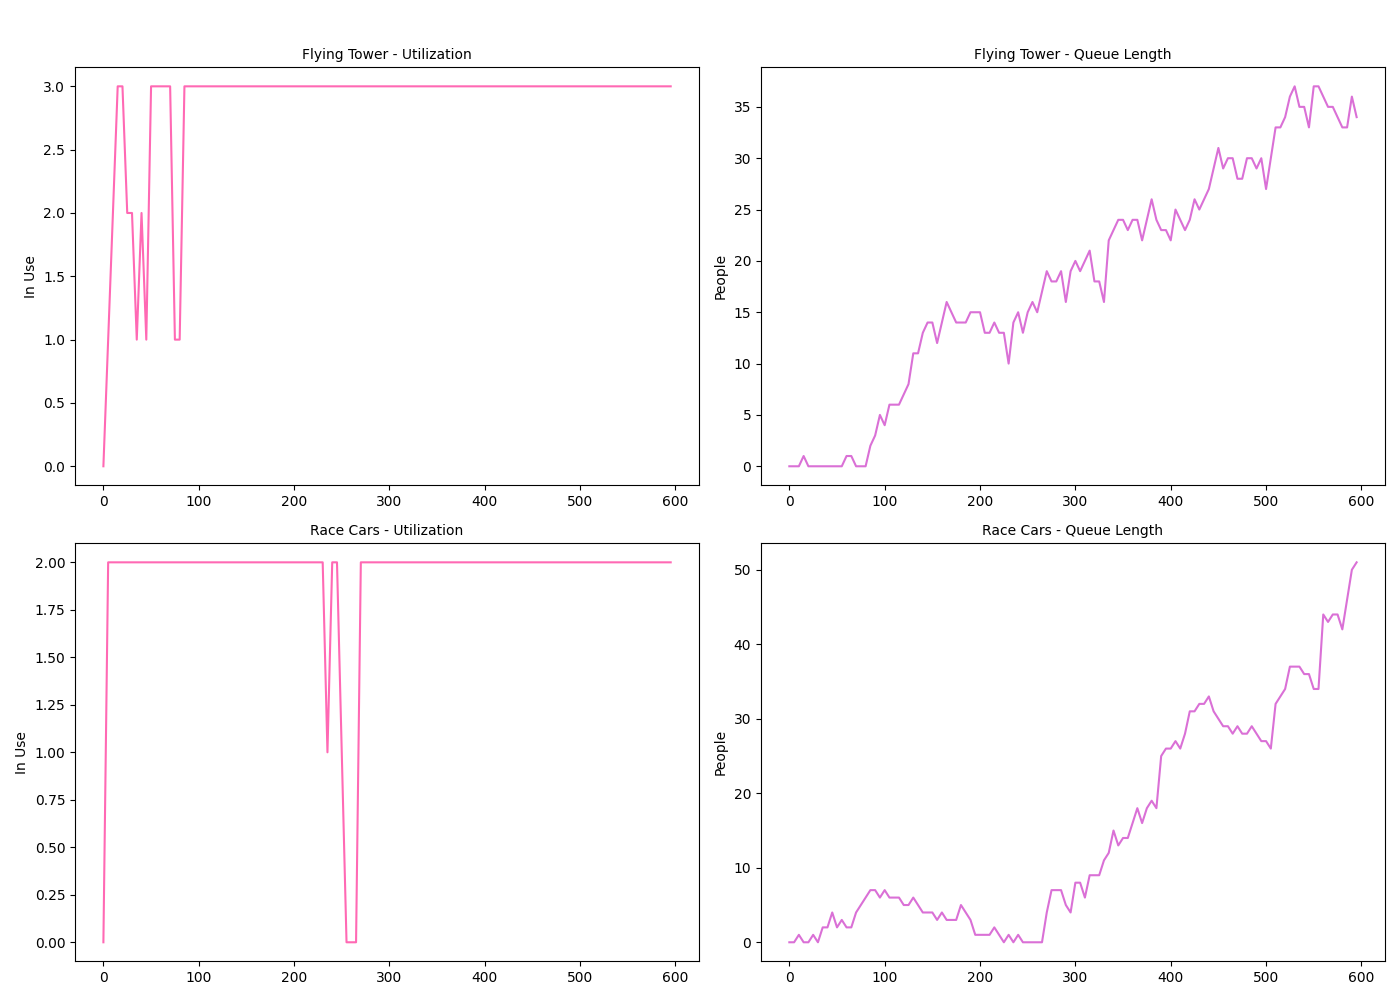
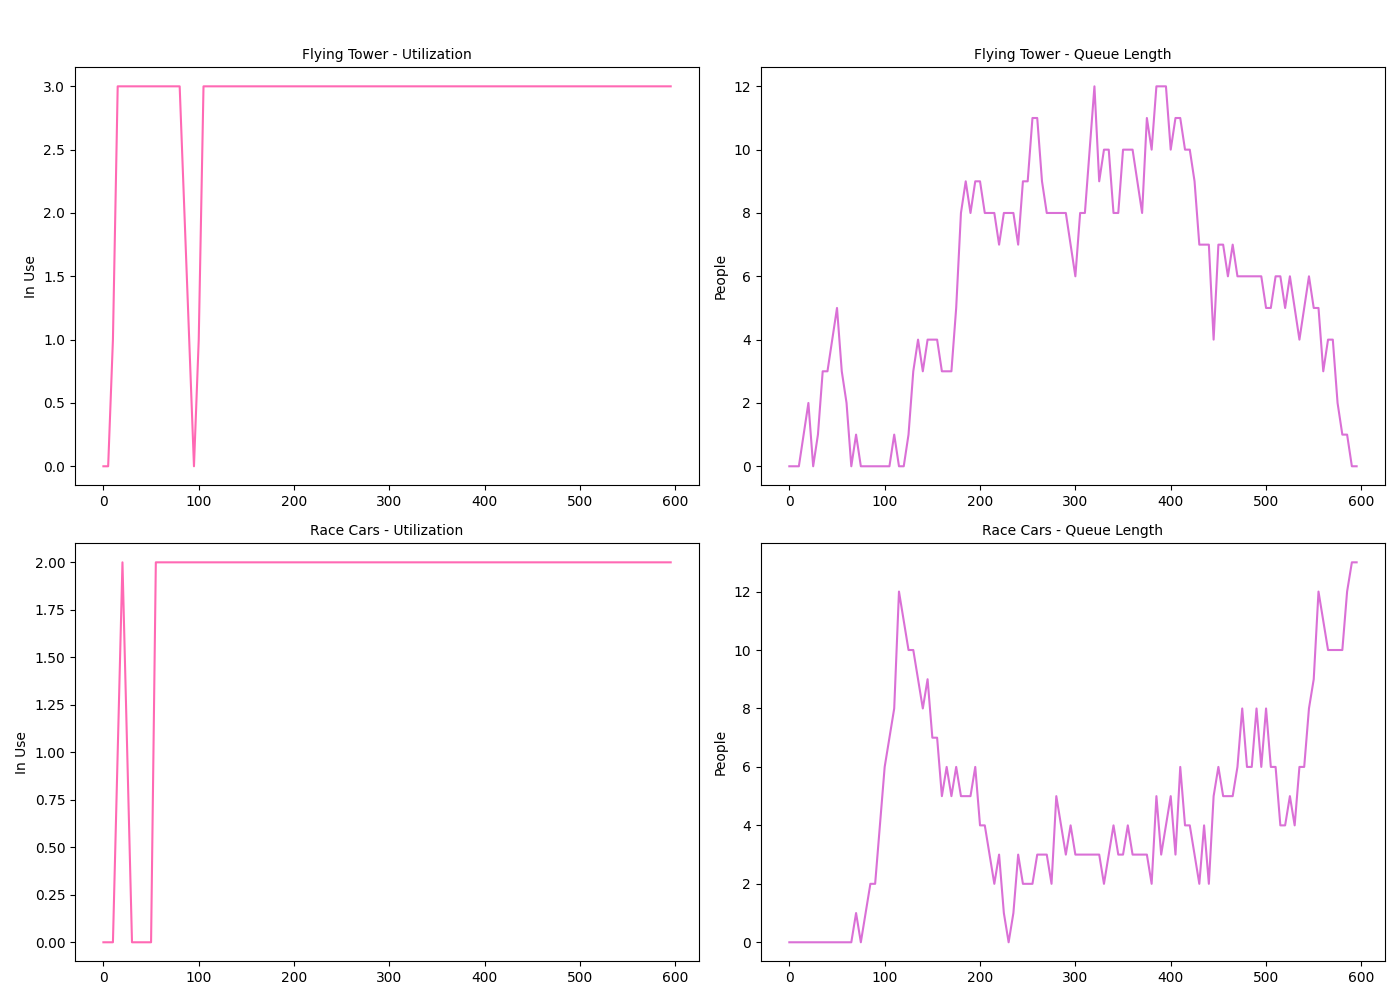
.

diff --git a/theme_park.py b/theme_park.py
@@ -7,8 +7,8 @@ import seaborn as sns
 from tabulate import tabulate
 from collections import defaultdict
 
-SIMULATION_TIME = 10 * 60
-VISITOR_ARRIVAL_MEAN = 0.5
+SIMULATION_TIME = 10 * 60 # total sim time in minutes
+VISITOR_ARRIVAL_MEAN = 0.5 # avg time bw visitor arrival
 RIDE_NAMES = ["Carousel", "Slide Cars", "Race Cars", "Ferris Wheel",
               "Self-Control Planes", "Spiral Rides", "Flying Tower"]
 RIDE_CAPACITY = {
@@ -44,7 +44,7 @@ VISITOR_PRIORITY = {
     "regular": 1,
 }
 
-event_logs_per_ride = {name: [] for name in RIDE_NAMES}
+event_logs_per_ride = {name: [] for name in RIDE_NAMES} # init list for each ride
 
 def format_time(t):
     total_seconds = int(t * 60)
@@ -58,13 +58,12 @@ class Ride:
         self.env = env
         self.name = name
         self.capacity = capacity
-        self.resource = simpy.PriorityResource(env, capacity)
+        self.resource = simpy.PriorityResource(env, capacity) # simpy resource w priority
         self.broken = False
         self.total_visitors = 0
         self.dropped_visitors = 0
         self.total_wait_time = 0
         self.utilization_time = 0
-        self.total_queue_time = 0
         self.queue_lengths = []
         self.failures = 0
         self.completed_rides = 0
@@ -74,26 +73,27 @@ class Ride:
         self.queue_log = []
         self.idle_time = 0
         self.last_busy_time = 0
-        self.env.process(self.breakdown_monitor())
-        self.env.process(self.log_time_series())
+        self.env.process(self.breakdown_monitor()) # start breakdown monitoring
+        self.env.process(self.log_time_series()) # start time series logging
 
     def monitor_utilization(self):
         now = self.env.now # gets current sim time
         duration = now - self.last_event_time # calc how much time passed since last state change
         state = 'broken' if self.broken else ('busy' if self.resource.count else 'idle')
-        self.state_durations[state] += duration
+        self.state_durations[state] += duration # add to state duration
         if state == 'idle':
-            self.idle_time += duration
+            self.idle_time += duration # track idle time
         elif state == 'broken':
-            self.last_busy_time = now
-        self.last_event_time = now
+            self.last_busy_time = now # track last busy time
+        self.last_event_time = now # track last event time
 
-    def log_event(self, visitor_id, arrival_time, wait_time, service_time, ride_start_time, ride_end_time, visitor_type):
+    def log_event(self, visitor_id, arrival_time, wait_time, service_time, ride_start_time, ride_end_time, visitor_type, priority):
         if len(event_logs_per_ride[self.name]) < 20:
             event_logs_per_ride[self.name].append([
                 format_time(self.env.now),
-                visitor_type,
                 visitor_id,
+                visitor_type,
+                priority,
                 self.name,
                 format_time(arrival_time),
                 f"{service_time} min",
@@ -105,18 +105,18 @@ class Ride:
                 "broken" if self.broken else "busy" if self.resource.count else "idle"
             ])
 
-    def breakdown_monitor(self):
+    def breakdown_monitor(self): # sim random breakdowns
         while True:
-            if not self.broken and random.random() < RIDE_FAILURE_PROB[self.name]:
-                self.broken = True
+            if not self.broken and random.random() < RIDE_FAILURE_PROB[self.name]: # chance of breakdown
+                self.broken = True # mark as broken
                 self.failures += 1
-                self.monitor_utilization()
-                yield self.env.timeout(RIDE_REPAIR_TIME())
-                self.monitor_utilization()
-                self.broken = False
-            yield self.env.timeout(1)
+                self.monitor_utilization() # log state change
+                yield self.env.timeout(RIDE_REPAIR_TIME()) # sim repair time
+                self.monitor_utilization() # log repair finished
+                self.broken = False # ride is fixed
+            yield self.env.timeout(1) # check again in one minute
 
-    def log_time_series(self):
+    def log_time_series(self): # log util and queue length every 5 mins
         while True:
             self.utilization_log.append((self.env.now, self.resource.count))
             self.queue_log.append((self.env.now, len(self.resource.queue)))
@@ -125,26 +125,27 @@ class Ride:
 def visitor_generator(env, rides, arrival_mean):
     visitor_id = 0
     while True:
-        yield env.timeout(np.random.exponential(arrival_mean))
-        visitor_type = random.choices(["child", "adult"], weights=[0.5, 0.5])[0]
+        yield env.timeout(np.random.exponential(arrival_mean)) # wait for next visitor
+        visitor_type = random.choices(["child", "adult"], weights=[0.5, 0.5])[0] # visitor type
         preferred_rides = {
             "child": ["Carousel", "Slide Cars", "Self-Control Planes", "Spiral Rides"],
             "adult": ["Ferris Wheel", "Race Cars", "Flying Tower", "Spiral Rides"]
         }
         ride_name = random.choice(preferred_rides[visitor_type])
-        ride = rides[ride_name]
+        ride = rides[ride_name] # calls ride object
 
-        priority = 'VIP' if random.random() < 0.1 else 'regular'
-        env.process(visitor(env, visitor_id, ride, priority, visitor_type))
+        priority = 'VIP' if random.random() < 0.1 else 'regular' # 10% chance of vip
+        env.process(visitor(env, visitor_id, ride, priority, visitor_type)) # start process
         visitor_id += 1
 
-def visitor(env, visitor_id, ride, priority='regular', visitor_type='child'):
+def visitor(env, visitor_id, ride, priority='regular', visitor_type='child'): # sim visitor behaviour
     arrival_time = env.now
     
-    while ride.broken:
-        yield env.timeout(1)
+    while ride.broken: # wait if ride is broken
+        ride.dropped_visitors += 1
+        return
     
-    with ride.resource.request(priority=VISITOR_PRIORITY[priority]) as request:
+    with ride.resource.request(priority=VISITOR_PRIORITY[priority]) as request: # request access to ride
         yield request
         ride.monitor_utilization()
 
@@ -163,7 +164,7 @@ def visitor(env, visitor_id, ride, priority='regular', visitor_type='child'):
 
         ride.monitor_utilization()
 
-        ride.log_event(visitor_id, arrival_time, wait_time, service_time, ride_start_time, ride_end_time, visitor_type)
+        ride.log_event(visitor_id, arrival_time, wait_time, service_time, ride_start_time, ride_end_time, visitor_type, priority)
 
 def visualize_summary(rides, sim_time):
     ride_names = list(rides.keys())
@@ -261,22 +262,25 @@ def simulate():
     env.process(visitor_generator(env, rides, VISITOR_ARRIVAL_MEAN))
     env.run(until=SIMULATION_TIME)
     total_visitors = sum(r.total_visitors for r in rides.values())
+    dropped_visitors = sum(r.dropped_visitors for r in rides.values())
     completed = sum(r.completed_rides for r in rides.values())
     avg_wait = sum(r.total_wait_time for r in rides.values()) / completed if completed else 0
+    total = total_visitors + dropped_visitors
 
     print("\n♡ Logs ♡\n")
     combined_logs = []
     for logs in event_logs_per_ride.values():
         combined_logs.extend(logs)
     random.shuffle(combined_logs)
-    headers = ["Minute", "Visitor Type", "Visitor ID", "Ride", "Arrival Time", "Service Time",
+    headers = ["Minute", "Visitor ID", "Visitor Type", "Priority", "Ride", "Arrival Time", "Service Time",
                "Ride Start Time", "Ride End Time", "Wait Time", "Queue Length", "Riders", "Status"]
 
     print(tabulate(combined_logs[:50], headers=headers, tablefmt="fancy_grid"))
 
     print("\n♡ Simulation Summary ♡")
     print(f"Simulation Time: {SIMULATION_TIME} minutes")
-    print(f"Total Visitors: {total_visitors}")
+    print(f"Total Visitors: {total}")
+    print(f"Dropped Visitors: {dropped_visitors}")
     print(f"Completed Visitors: {completed}")
     print(f"Average Wait Time: {format_time(avg_wait)}")
 
